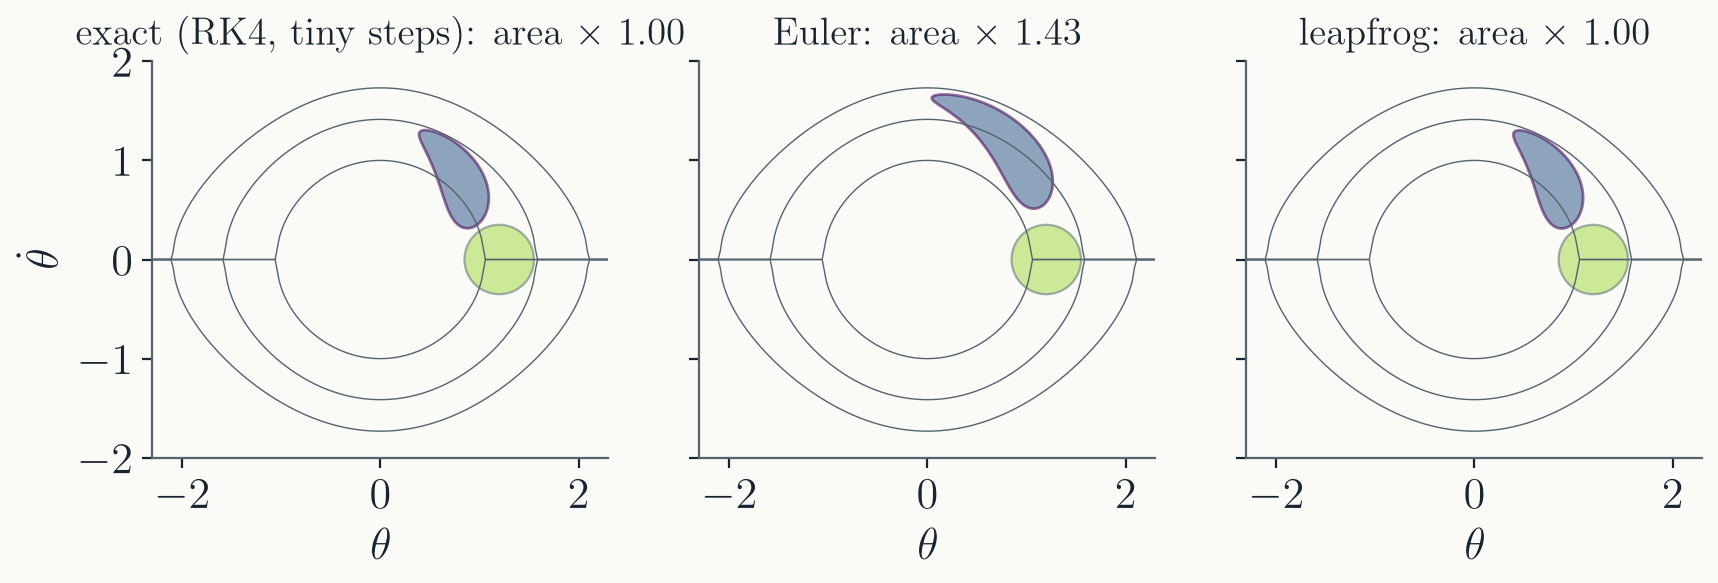
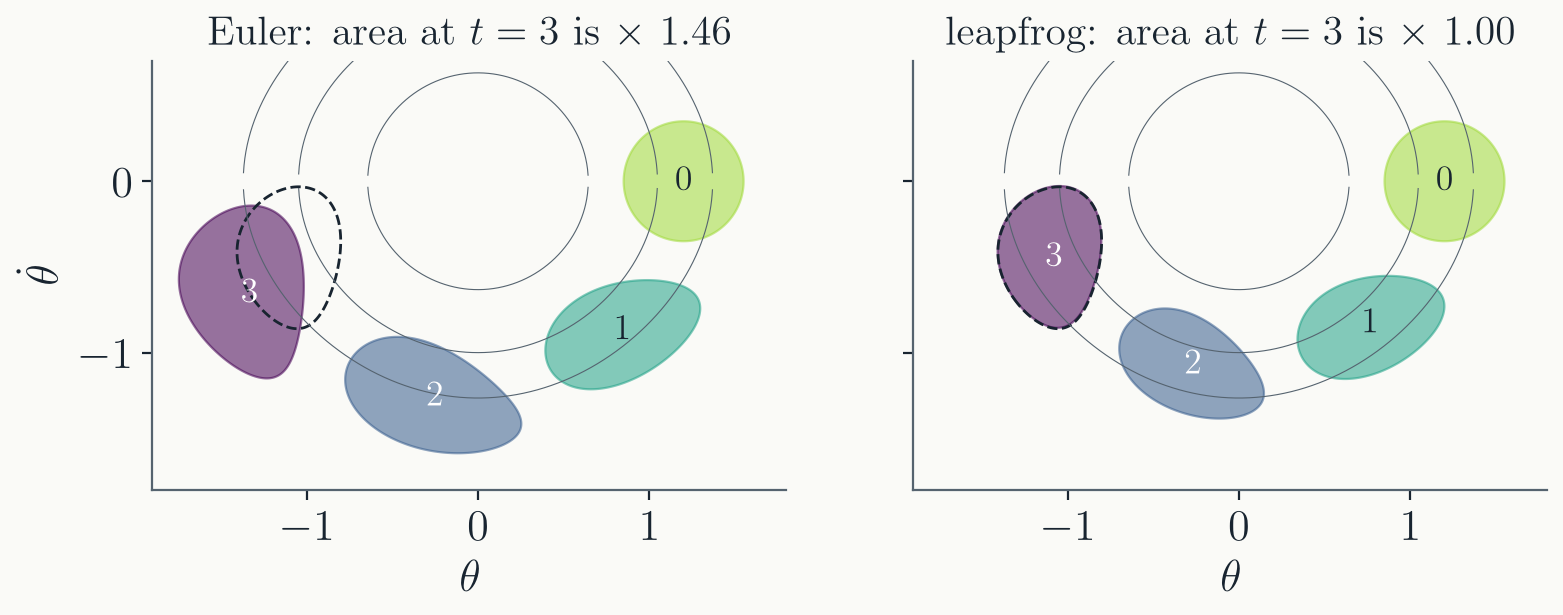
Lecture 10 figures: phase-space patch at t = 0..3; check leapfrog's modified energy
Claude-Session: https://claude.ai/code/session_0159JUpTGoHD3rNAxwaaQ4Xs

diff --git a/Lecture 10/make_figures.py b/Lecture 10/make_figures.py
@@ -233,31 +233,58 @@ def blob(n=400):
 def area(x, v):
     return 0.5 * abs(np.dot(x, np.roll(v, -1)) - np.dot(v, np.roll(x, -1)))
 
-HB, NB = 0.1, 60                # 6 time units, a bit under one period
-fig, axes = plt.subplots(1, 3, figsize=(10.0, 3.6), sharex=True, sharey=True)
+HB = 0.2                        # large step, so Euler's area change is visible
+SNAP_TIMES = [0, 1, 2, 3]       # snapshots of the patch
 x0, v0 = blob()
 A0 = area(x0, v0)
-print(f"phase-space blob, {NB} steps of h = {HB}: area / initial area")
-for ax, (name, step, h, n) in zip(axes, [("exact (RK4, tiny steps)", rk4, HB / 20, NB * 20),
-                                         ("Euler", euler, HB, NB),
-                                         ("leapfrog", leapfrog, HB, NB)]):
-    x, v = x0.copy(), v0.copy()
-    for _ in range(n):
-        x, v = step(x, v, h)
-    ratio = area(x, v) / A0
-    print(f"  {name:24s} {ratio:.4f}")
-    ax.add_patch(Polygon(np.c_[x0, v0], closed=True, fc=V[3], ec=MUTED, alpha=0.5, lw=0.8))
-    ax.add_patch(Polygon(np.c_[x, v], closed=True, fc=V[1], ec=V[0], alpha=0.55, lw=1.0))
-    ax.set_title(f"{name}: area $\\times$ {ratio:.2f}", fontsize=14)
+
+def snapshots(step, h):
+    x, v = x0.copy(), v0.copy(); out = [(x.copy(), v.copy())]
+    per = int(round(1 / h))
+    for _ in range(SNAP_TIMES[-1]):
+        for _ in range(per):
+            x, v = step(x, v, h)
+        out.append((x.copy(), v.copy()))
+    return out
+
+exact = snapshots(rk4, HB / 20)
+print(f"phase-space patch, h = {HB}, area / initial area at t = 1, 2, 3:")
+print("  exact (RK4, h/20)  " + "  ".join(f"{area(*sn) / A0:.3f}" for sn in exact[1:]))
+fig, axes = plt.subplots(1, 2, figsize=(9.0, 4.0), sharex=True, sharey=True)
+th = np.linspace(-np.pi, np.pi, 4001)
+shades = [V[3], V[2], V[1], V[0]]
+for ax, (name, step) in zip(axes, [("Euler", euler), ("leapfrog", leapfrog)]):
+    for e in (-0.8, -0.5, -0.2):
+        # energy contour e = v^2/2 - cos(theta), drawn only where it exists
+        arg = 2 * (e + np.cos(th))
+        vv = np.where(arg >= 0, np.sqrt(np.abs(arg)), np.nan)
+        ax.plot(th, vv, color=MUTED, lw=0.4); ax.plot(th, -vv, color=MUTED, lw=0.4)
+    snaps = snapshots(step, HB)
+    for (x, v), t, col in zip(snaps, SNAP_TIMES, shades):
+        ax.add_patch(Polygon(np.c_[x, v], closed=True, fc=col, ec=col, alpha=0.55, lw=0.8))
+        cx, cv = x.mean(), v.mean()
+        ax.text(cx, cv, f"${t}$", ha="center", va="center", fontsize=13,
+                color="white" if t > 1 else INK)
+    xe, ve = exact[-1]
+    ax.add_patch(Polygon(np.c_[xe, ve], closed=True, fill=False, ec=INK, ls="--", lw=1.0))
+    print(f"  {name:18s} " + "  ".join(f"{area(*sn) / A0:.3f}" for sn in snaps[1:]))
+    ax.set_title(f"{name}: area at $t = 3$ is $\\times$ {area(*snaps[-1]) / A0:.2f}", fontsize=15)
     ax.set_xlabel(r"$\theta$")
-th = np.linspace(-np.pi, np.pi, 300)
-for ax in axes:
-    for e in (-0.5, 0.0, 0.5):
-        vv = np.sqrt(np.clip(2 * (e + np.cos(th)), 0, None))
-        ax.plot(th, vv, color=MUTED, lw=0.5); ax.plot(th, -vv, color=MUTED, lw=0.5)
-    ax.set_xlim(-2.3, 2.3); ax.set_ylim(-2.0, 2.0); ax.set_aspect("equal")
+    ax.set_aspect("equal")
+axes[0].set_xlim(-1.9, 1.8); axes[0].set_ylim(-1.8, 0.7)
 axes[0].set_ylabel(r"$\dot\theta$")
 save(fig, "phase_area")
+
+# ------------------------------------------- 7b. the modified energy of leapfrog
+print("leapfrog on the 90-degree pendulum, 200 time units: variation of H and of")
+print("  H~ = H + h^2 p^2 V''/12 - h^2 V'^2/24  (V = -cos q)")
+for h in (0.2, 0.1):
+    q, p = TH90, 0.0; h_vals, ht_vals = [], []
+    for _ in range(int(200 / h)):
+        q, p = leapfrog(q, p, h)
+        h_vals.append(energy(q, p))
+        ht_vals.append(energy(q, p) + h * h * (p * p * np.cos(q) / 12 - np.sin(q) ** 2 / 24))
+    print(f"  h = {h}: H varies by {np.ptp(h_vals):.1e}, H~ by {np.ptp(ht_vals):.1e}")
 
 # ------------------------------------------- 8. the leapfrog staggering
 fig, ax = plt.subplots(figsize=(7.0, 1.9))
